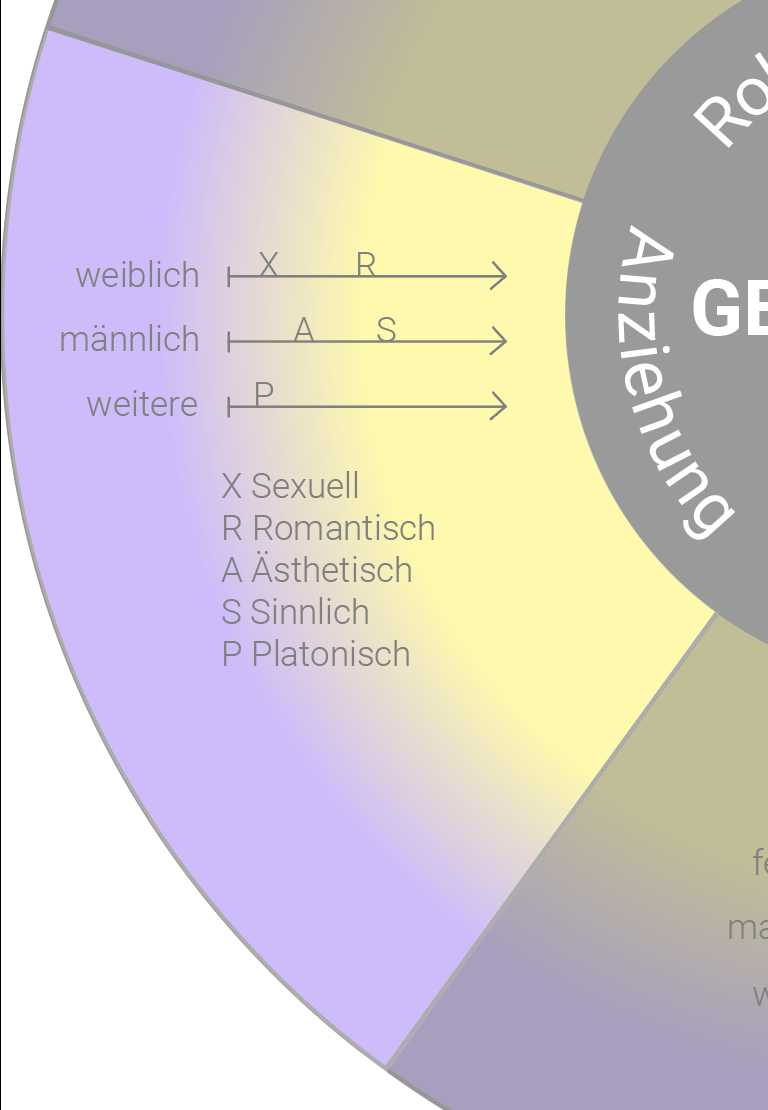
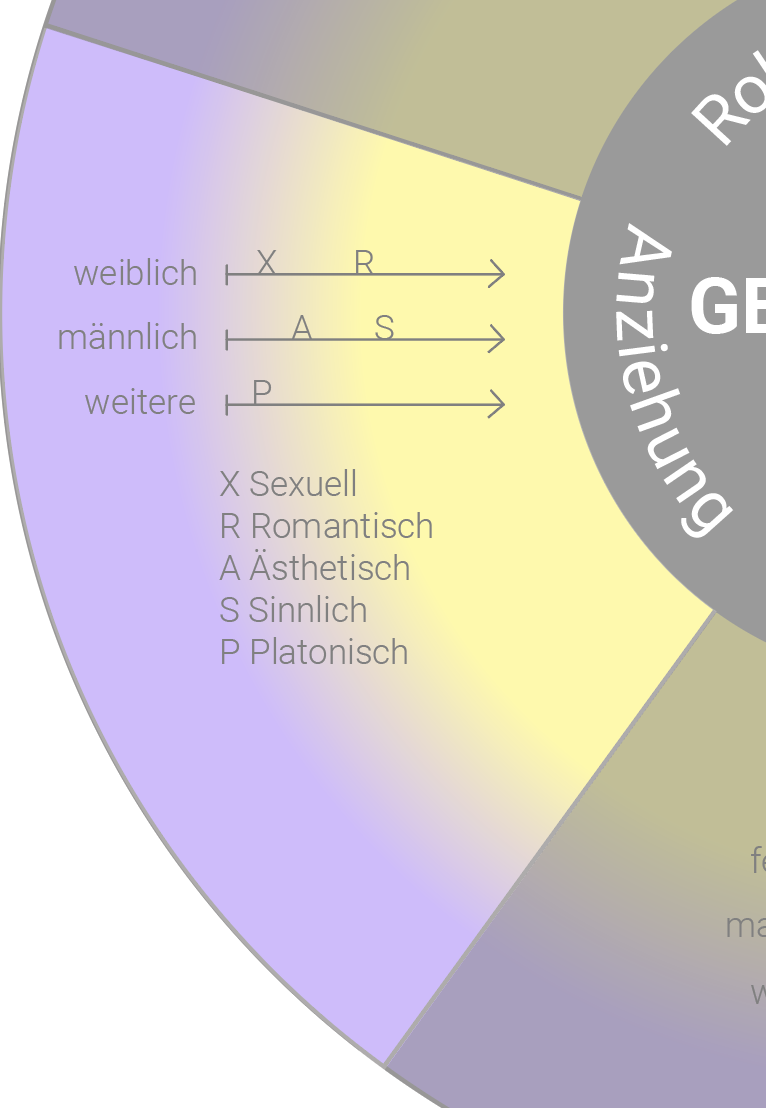
Bilder zugeschnitten, Lexikon Links Part 1

diff --git a/Lexikon.html b/Lexikon.html
@@ -110,7 +110,7 @@
         </button>
         <div class="content">
           <p style="font-weight:100">
-            Das Wort cis bedeutet ursprünglich „auf dieser Seite, diesseits“. In Bezug auf die Identität bedeutet es, dass die eigene Geschlechtsidentität eines Menschen mit dem bei der Geburt zugeschriebenen körperlichen Geschlecht übereinstimmt. 
+            Das Wort cis bedeutet ursprünglich „auf dieser Seite, diesseits“. In Bezug auf die Identität bedeutet es, dass die eigene</p>  <p style="text-decoration:underline; font-weight:100;" id="bgeschlecht4" class="pointable">Geschlechtsidentität</p><p style="font-weight:100"> eines Menschen mit dem bei der Geburt zugeschriebenen körperlichen Geschlecht übereinstimmt. 
             <br> Beispiel: Eine cis Frau ist eine Person, die sich als Frau identifiziert und der bei der Geburt das weibliche Geschlecht zugeschrieben wurde. <br> Gegenwort: </p> 
             <p style="text-decoration:underline; font-weight:100;" id="bcis" class="pointable">trans<br></p> </p>
           <div class="containerBild"> 
@@ -204,7 +204,7 @@
         </button>
         <div class="content">
           <p style="font-weight:100">
-            Als hetero(sexuell) werden Menschen bezeichnet, deren sexuelle Orientierung oder Anziehung auf das jeweils andere Geschlecht ausgerichtet ist. Dies geschieht unter der Annahme der Zweigeschlechtlichkeit.
+            Als hetero(sexuell) werden Menschen bezeichnet, deren </p> <p style="text-decoration:underline; font-weight:100;" id="bsexuell" class="pointable">sexuelle Orientierung oder Anziehung</p><p style="font-weight:100"> auf das jeweils andere Geschlecht ausgerichtet ist. Dies geschieht unter der Annahme der Zweigeschlechtlichkeit.
             <br> Beispiel: Männer die sich sexuell zu Frauen hingezogen fühlen und umgekehrt. </p>
             <div class="containerBild"> 
               <img  src="Images/Anziehung1.png" style="max-width: 300px;height: auto;margin-top:-10px;"></img>
@@ -219,7 +219,7 @@
         </button>
         <div class="content">
           <p style="font-weight:100">
-            Es werden drei Gruppen von Geschlechtshormonen unterschieden, die in den Geschlechtsorganen gebildet werden: Androgene (bspw. Testosteron), Östrogene und Gestagene. Diese können in unterschiedlichen Mengenverhältnissen sowohl im biologisch männlichen als auch im biologisch weiblichen Körper gebildet werden. Wenn dieses Mengenverhältnis sich nicht im Gleichgewicht befindet tritt eine Variation der Geschlechtshormone auf. Dann kann zum Beispiel das «adrenogenitale Syndrom (AGS)» oder das «polyzystische Ovarsyndrom (PCOS)» auftreten. Für trans Menschen, die sich ihrem angeborenen Geschlecht nicht zugehörig fühlen ist außerdem eine geschlechtsangleichende Hormontherapie möglich.</p>
+            Es werden drei Gruppen von Geschlechtshormonen unterschieden, die in den Geschlechtsorganen gebildet werden: Androgene (bspw. Testosteron), Östrogene und Gestagene. Diese können in unterschiedlichen Mengenverhältnissen sowohl im biologisch männlichen als auch im biologisch weiblichen Körper gebildet werden. Wenn dieses Mengenverhältnis sich nicht im Gleichgewicht befindet tritt eine Variation der Geschlechtshormone auf. Dann kann zum Beispiel das «adrenogenitale Syndrom (AGS)» oder das «polyzystische Ovarsyndrom (PCOS)» auftreten. Für <p style="text-decoration:underline; font-weight:100;" id="btrans2" class="pointable">trans</p><p style="font-weight:100"> Menschen, die sich ihrem angeborenen Geschlecht nicht zugehörig fühlen ist außerdem eine geschlechtsangleichende Hormontherapie möglich.</p>
             <div class="containerBild"> 
               <img  src="Images/Koerper.png" style="max-width: 300px;height: auto;margin-top:-10px;"></img>
            </div>
@@ -359,7 +359,7 @@
         </button>
         <div class="content">
           <p style="font-weight:100">
-            Unter platonischer Anziehung versteht man Anziehung in Form von Liebe ohne sexuelle Anziehung. <br>Beispiel: Freundschaft </p>
+            Unter platonischer Anziehung versteht man Anziehung in Form von Liebe ohne <p style="text-decoration:underline; font-weight:100;" id="bprogressiv" class="pointable">sexuelle Anziehung.</p> <br><p style="font-weight:100">Beispiel: Freundschaft </p>
           <div class="containerBild"> 
              <img  src="Images/Anziehung.png" style="max-width: 300px;height: auto;margin-top:-10px;"></img>
            </div>
@@ -622,6 +622,22 @@
           window.location = 'Lexikon.html#ageschlechtsidentitaet';
           ageschlechtsidentitaet.click();
         } 
+
+  bgeschlecht4.onclick = function() {
+          window.location = 'Lexikon.html#ageschlechtsidentitaet';
+          ageschlechtsidentitaet.click();
+        } 
+
+  bsexuell.onclick = function() {
+          window.location = 'Lexikon.html#asexuell';
+          asexuell.click();
+        } 
+  btrans2.onclick = function () {
+          window.location = 'Lexikon.html#atrans';
+          atrans.click();
+        }
+
+  
 
 
 /* Verlinkung Radar zu Lexikoneintrag */        
